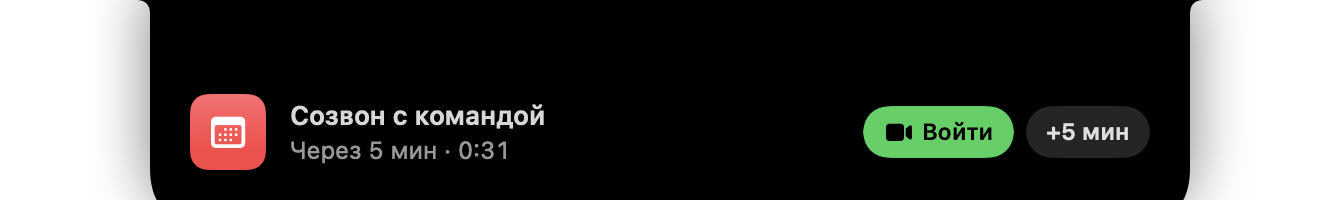
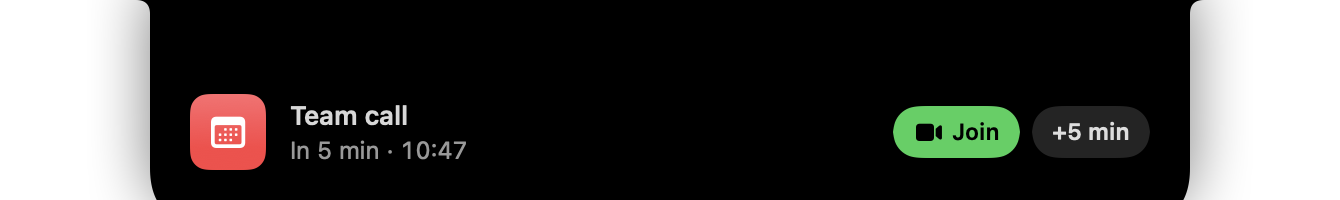
README animation, .dmg script, English screenshots
- `Notchly --gif <file> [--lang en]` draws the open/close animation frame
  by frame with the same springs as IslandMetrics (no screen recording);
  docs/notchly.gif at the top of the README.
- scripts/make-dmg.sh builds build/Notchly-<version>.dmg with an
  Applications shortcut.
- Doc screenshots re-rendered in English; README gains Download (with the
  Gatekeeper note for a locally signed app) and language notes.
- Offscreen renders tinted the selected tab's symbol white, hiding it on
  the white capsule; renders now use a pre-tinted symbol.

Changed region(s): [[0.6425, 0.51, 0.8567, 0.81], [0.2142, 0.51, 0.4284, 0.66], [0.2142, 0.69, 0.3978, 0.81]]

diff --git a/Sources/Notchly/ReadmeGIF.swift b/Sources/Notchly/ReadmeGIF.swift
@@ -1,0 +1,126 @@
+import AppKit
+import ImageIO
+import SwiftUI
+import UniformTypeIdentifiers
+
+/// `Notchly --gif <файл.gif> [--lang en]` рисует GIF для README: остров раскрывается, стоит и сворачивается.
+/// Кадры считаются по тем же пружинам, что в IslandMetrics, поэтому GIF совпадает с настоящей анимацией,
+/// а экран записывать не нужно. Данные вымышленные, как в снапшотах.
+enum ReadmeGIF {
+    private static let fps = 30.0
+
+    @MainActor
+    static func render(to url: URL) {
+        SnapshotFlags.isRendering = true
+        let model = IslandModel(persistent: false)
+        let notch = CGSize(width: 185, height: 32)
+        model.notchSize = notch
+        let art = NSImage(size: NSSize(width: 300, height: 300), flipped: false) { rect in
+            NSGradient(colors: [.systemPink, .systemOrange, .systemPurple])?.draw(in: rect, angle: 45)
+            return true
+        }
+        model.media.debugSet(title: "Blinding Lights", artist: "The Weeknd", album: "After Hours",
+                             duration: 200, elapsed: 74, playing: true, artwork: art, bundleID: "com.apple.Music")
+        model.weather.debugSet(Weather(temperature: 18, high: 21, low: 12, code: 1, isDay: true,
+                                       city: Loc.pick("Берлин", "Berlin"), latitude: 52.52, longitude: 13.40))
+        model.batteries.debugSet(devices: [], phone: nil, mac: BatteryInfo(percent: 82, charging: false))
+        model.tab = .home
+
+        let size = IslandMetrics.windowSize
+        let root = ZStack(alignment: .top) {
+            // Кусочек «рабочего стола» со строкой меню, чтобы было видно, откуда выходит остров.
+            LinearGradient(colors: [Color(red: 0.16, green: 0.2, blue: 0.42), Color(red: 0.42, green: 0.25, blue: 0.5)],
+                           startPoint: .topLeading, endPoint: .bottomTrailing)
+            Color.black.opacity(0.18).frame(height: notch.height).frame(maxHeight: .infinity, alignment: .top)
+            IslandRootView(model: model, media: model.media)
+        }
+        .frame(width: size.width, height: size.height)
+        let host = NSHostingView(rootView: root)
+        host.frame = NSRect(origin: .zero, size: size)
+        let window = NSWindow(contentRect: host.frame, styleMask: .borderless, backing: .buffered, defer: false)
+        window.contentView = host
+
+        let collapsed = (size: CGSize(width: notch.width + 14, height: notch.height), top: CGFloat(7), bottom: CGFloat(11))
+        let expanded = (size: CGSize(width: IslandMetrics.expandedWidth + 28, height: notch.height + IslandMetrics.expandedContentHeight),
+                        top: CGFloat(14), bottom: CGFloat(34))
+        func frame(shape p: Double, content c: Double) -> IslandModel.DebugFrame {
+            let k = CGFloat(p)
+            return .init(size: CGSize(width: collapsed.size.width + (expanded.size.width - collapsed.size.width) * k,
+                                      height: collapsed.size.height + (expanded.size.height - collapsed.size.height) * k),
+                         top: collapsed.top + (expanded.top - collapsed.top) * k,
+                         bottom: collapsed.bottom + (expanded.bottom - collapsed.bottom) * k,
+                         content: c)
+        }
+
+        var frames: [(IslandModel.DebugFrame, Bool)] = []  // кадр и «остров раскрыт»
+        let step = 1 / fps
+        for _ in 0..<12 { frames.append((frame(shape: 0, content: 0), false)) }
+        // Открытие: шторка — пружина IslandMetrics.open, виджеты — easeOut 0.3 с после паузы.
+        for i in 0..<Int(0.9 * fps) {
+            let t = Double(i) * step
+            let content = easeOut(max(0, t - IslandMetrics.contentInDelay) / 0.3)
+            frames.append((frame(shape: spring(t, response: 0.44, damping: 0.9), content: content), true))
+        }
+        for _ in 0..<Int(1.6 * fps) { frames.append((frame(shape: 1, content: 1), true)) }
+        // Закрытие: сначала гаснет содержимое, потом форма без отскока уходит в вырез.
+        for i in 0..<Int(0.85 * fps) {
+            let t = Double(i) * step
+            let content = 1 - easeOut(t / 0.14)
+            let shape = t < IslandMetrics.closeDelay ? 1 : 1 - spring(t - IslandMetrics.closeDelay, response: 0.5, damping: 1)
+            frames.append((frame(shape: shape, content: content), shape > 0.02))
+        }
+        for _ in 0..<12 { frames.append((frame(shape: 0, content: 0), false)) }
+
+        guard let destination = CGImageDestinationCreateWithURL(url as CFURL, UTType.gif.identifier as CFString,
+                                                                frames.count, nil) else { return }
+        CGImageDestinationSetProperties(destination, [kCGImagePropertyGIFDictionary: [kCGImagePropertyGIFLoopCount: 0]] as CFDictionary)
+        let delay = [kCGImagePropertyGIFDictionary: [kCGImagePropertyGIFDelayTime: step]] as CFDictionary
+
+        // Первый проход: даём SwiftUI загрузить раскрытое содержимое, чтобы в первых кадрах не было пустоты.
+        model.isExpanded = true
+        model.expandedContentVisible = true
+        model.debugFrame = frame(shape: 1, content: 1)
+        // Если вкладка выбрана в момент первого появления шапки, офскрин-рендер теряет её иконку.
+        // Поэтому сначала показываем другую вкладку и переключаемся — как это происходит вживую.
+        model.tab = .music
+        RunLoop.main.run(until: Date().addingTimeInterval(0.6))
+        model.tab = .home
+        RunLoop.main.run(until: Date().addingTimeInterval(1.2))
+
+        // Содержимое всё время на месте (иначе шапка появлялась бы заново), его видимость задаёт кадр.
+        for (debug, _) in frames {
+            model.debugFrame = debug
+            RunLoop.main.run(until: Date().addingTimeInterval(0.02))
+            host.layoutSubtreeIfNeeded()
+            guard let rep = host.bitmapImageRepForCachingDisplay(in: host.bounds) else { continue }
+            host.cacheDisplay(in: host.bounds, to: rep)
+            // Хранить кадры в 2x незачем: GIF получился бы огромным.
+            guard let full = rep.cgImage, let image = downscale(full, to: size) else { continue }
+            CGImageDestinationAddImage(destination, image, delay)
+        }
+        CGImageDestinationFinalize(destination)
+    }
+
+    /// Пружина SwiftUI с заданными response и dampingFraction, от 0 до 1.
+    private static func spring(_ t: Double, response: Double, damping: Double) -> Double {
+        let omega = 2 * Double.pi / response
+        if damping >= 1 { return 1 - (1 + omega * t) * exp(-omega * t) }
+        let wd = omega * sqrt(1 - damping * damping)
+        return 1 - exp(-damping * omega * t) * (cos(wd * t) + damping * omega / wd * sin(wd * t))
+    }
+
+    private static func easeOut(_ x: Double) -> Double {
+        let t = min(max(x, 0), 1)
+        return 1 - pow(1 - t, 3)
+    }
+
+    private static func downscale(_ image: CGImage, to size: CGSize) -> CGImage? {
+        guard let ctx = CGContext(data: nil, width: Int(size.width), height: Int(size.height), bitsPerComponent: 8,
+                                  bytesPerRow: 0, space: CGColorSpaceCreateDeviceRGB(),
+                                  bitmapInfo: CGImageAlphaInfo.premultipliedFirst.rawValue) else { return nil }
+        ctx.interpolationQuality = .high
+        ctx.draw(image, in: CGRect(origin: .zero, size: size))
+        return ctx.makeImage()
+    }
+}
+

diff --git a/Sources/Notchly/IslandModel.swift b/Sources/Notchly/IslandModel.swift
@@ -187,6 +187,9 @@ final class IslandModel: ObservableObject {
     let alarms: AlarmStore
     let settings: AppSettings
     private let screenshotWatcher = ScreenshotFileWatcher()
+    /// Только для GIF в README: форма и видимость содержимого в промежуточном кадре анимации.
+    struct DebugFrame: Equatable { var size: CGSize; var top: CGFloat; var bottom: CGFloat; var content: Double }
+    @Published var debugFrame: DebugFrame?
     /// Открыто окно настроек: остров стоит раскрытым, чтобы изменения было видно сразу.
     @Published var settingsOpen = false
 
@@ -283,9 +286,10 @@ final class IslandModel: ObservableObject {
 
     // MARK: - Геометрия
 
-    var topRadius: CGFloat { isExpanded ? 14 : 7 }
+    var topRadius: CGFloat { debugFrame?.top ?? (isExpanded ? 14 : 7) }
 
     var bottomRadius: CGFloat {
+        if let debugFrame { return debugFrame.bottom }
         if isExpanded { return 34 }
         if let event {
             if event.isCompact { return hasPhysicalNotch ? 11 : 14 }
@@ -328,7 +332,8 @@ final class IslandModel: ObservableObject {
 
     /// Полный размер фигуры с учётом изгибов у верхней кромки.
     var shapeSize: CGSize {
-        CGSize(width: bodySize.width + topRadius * 2, height: bodySize.height)
+        if let debugFrame { return debugFrame.size }
+        return CGSize(width: bodySize.width + topRadius * 2, height: bodySize.height)
     }
 
     /// Живая активность музыки в свёрнутом острове (можно выключить в настройках).

diff --git a/Sources/Notchly/Views/ExpandedIslandView.swift b/Sources/Notchly/Views/ExpandedIslandView.swift
@@ -121,9 +121,19 @@ private struct TabButton: View {
 
     @ViewState private var hovering = false
 
+    /// Снимок окна (снапшоты и GIF для README) красит системные символы в кнопках белым,
+    /// и чёрная иконка выбранной вкладки пропадала на белой капсуле. Там берём уже окрашенную картинку.
+    private var icon: Image {
+        guard SnapshotFlags.isRendering, selected,
+              let symbol = NSImage(systemSymbolName: tab.icon, accessibilityDescription: nil)?
+                .withSymbolConfiguration(.init(pointSize: 12.5, weight: .semibold)
+                    .applying(.init(paletteColors: [.black]))) else { return Image(systemName: tab.icon) }
+        return Image(nsImage: symbol)
+    }
+
     var body: some View {
         Button(action: action) {
-            Image(systemName: tab.icon)
+            icon
                 .font(.system(size: 12.5, weight: .semibold))
                 .foregroundStyle(selected ? .black : .white.opacity(hovering ? 1 : 0.65))
                 .symbolEffect(.bounce, value: selected)

diff --git a/Sources/Notchly/Views/IslandRootView.swift b/Sources/Notchly/Views/IslandRootView.swift
@@ -93,8 +93,8 @@ struct IslandRootView: View {
                        height: model.notchSize.height + IslandMetrics.expandedContentHeight)
                 // Открытие: виджеты выходят снизу, когда шторка уже опускается.
                 // Закрытие: сначала всё гаснет, потом сворачивается форма.
-                .opacity(model.expandedContentVisible ? 1 : 0)
-                .offset(y: model.expandedContentVisible ? 0 : 12)
+                .opacity(model.debugFrame?.content ?? (model.expandedContentVisible ? 1 : 0))
+                .offset(y: 12 * (1 - (model.debugFrame?.content ?? (model.expandedContentVisible ? 1 : 0))))
                 .allowsHitTesting(model.expandedContentVisible)
                 .transition(.identity)
         } else if let event = model.event, model.eventExpanded {

diff --git a/Sources/Notchly/Snapshots.swift b/Sources/Notchly/Snapshots.swift
@@ -9,6 +9,8 @@ enum SnapshotFlags {
     static var clipboardMode: ClipboardTab.Mode = .history
     static var settingsPane: SettingsView.Pane = .general
     static var expandedClipGroup: String?
+    /// Идёт офскрин-рендер (снапшоты, GIF), а не живое приложение.
+    static var isRendering = false
 }
 
 /// `Notchly --snapshots <папка>` рендерит все состояния острова в PNG —
@@ -16,6 +18,7 @@ enum SnapshotFlags {
 enum Snapshots {
     @MainActor
     static func render(to dir: URL) {
+        SnapshotFlags.isRendering = true
         try? FileManager.default.createDirectory(at: dir, withIntermediateDirectories: true)
         let model = IslandModel(persistent: false)
         model.notchSize = CGSize(width: 185, height: 32)

diff --git a/Sources/Notchly/App.swift b/Sources/Notchly/App.swift
@@ -14,6 +14,12 @@ final class AppDelegate: NSObject, NSApplicationDelegate {
            let language = AppLanguage(rawValue: CommandLine.arguments[i + 1]) {
             Loc.language = language
         }
+        if let i = CommandLine.arguments.firstIndex(of: "--gif"), i + 1 < CommandLine.arguments.count {
+            MainActor.assumeIsolated {
+                ReadmeGIF.render(to: URL(fileURLWithPath: CommandLine.arguments[i + 1]))
+            }
+            exit(0)
+        }
         if let i = CommandLine.arguments.firstIndex(of: "--snapshots"), i + 1 < CommandLine.arguments.count {
             MainActor.assumeIsolated {
                 Snapshots.render(to: URL(fileURLWithPath: CommandLine.arguments[i + 1]))

diff --git a/README.md b/README.md
@@ -10,12 +10,22 @@
 </p>
 
 <p align="center">
+  <img src="docs/notchly.gif" width="760" alt="The island opening from the notch">
+</p>
+
+<p align="center">
   <img src="docs/screenshots/4-home.png" width="720" alt="Home">
 </p>
 
 <p align="center">
   <img src="docs/screenshots/12-focus-compact.png" width="420" alt="Focus timer in the collapsed island">
 </p>
+
+## Download
+
+Grab `Notchly-1.0.dmg` from [Releases](../../releases), open it and drag Notchly to Applications.
+
+The app is signed with a local certificate, not an Apple Developer ID, so on first launch macOS says it can't verify the developer. Right-click Notchly → **Open** → **Open** (or *System Settings → Privacy & Security → Open Anyway*). You only need to do this once.
 
 ## Features
 
@@ -32,7 +42,7 @@
 | **Clipboard** — history grouped by app, recent **screenshots** (click to copy, drag into any app, save a copy; kept for a few days); entries and screenshots can be given their own names, and a Touch ID–protected API key vault. | <img src="docs/screenshots/4-clipboard-shots.png" width="360"><br><img src="docs/screenshots/4-clipboard.png" width="360"> |
 | **Settings** — a separate window that opens under the island, so every change is visible live: tab order and side, hidden tabs, which cards and HUDs appear, notifications, clipboard and screenshot retention, how long the island stays open. | <img src="docs/screenshots/14-settings-tabs.png" width="360"> |
 
-Also: rich-text notes, a notification center (Gmail over IMAP + app notifications), volume/brightness HUDs that replace the system ones.
+Also: English and Russian interface (switchable live in Settings), rich-text notes, a notification center (Gmail over IMAP + app notifications), volume/brightness HUDs that replace the system ones.
 
 ## Engineering highlights
 
@@ -60,6 +70,8 @@ Everything stays on your Mac: no server, no analytics, no telemetry. Secrets liv
 open build/Notchly.app
 ```
 
+`./scripts/make-dmg.sh` builds `build/Notchly-<version>.dmg` for a release.
+
 Regenerate the icon with `swift scripts/make-icon.swift`.
 
 ### Permissions
@@ -71,11 +83,14 @@ Regenerate the icon with `swift scripts/make-icon.swift`.
 | Audio Capture | per-app volume mixer |
 | Calendars | meeting reminders |
 | Bluetooth, Location | headphone battery, local weather |
+| Desktop folder | keeping Desktop screenshots (only if you turn it on) |
 
 ### Self-checks
 
 ```bash
-.build/debug/Notchly --snapshots /tmp/notchly   # render all states to PNG
+.build/debug/Notchly --snapshots /tmp/notchly [--lang en]   # render all states to PNG
+.build/debug/Notchly --gif docs/notchly.gif --lang en        # the README animation, frame by frame
+python3 scripts/check-l10n.py                                # every UI string has an English translation
 .build/debug/Notchly --reminders-selftest       # reminder scheduling
 .build/debug/Notchly --mixer-selftest           # which apps are playing audio
 .build/debug/Notchly --chime                    # play the reminder sound
@@ -92,7 +107,8 @@ Sources/Notchly/
   GmailClient.swift, SystemNotifications.swift, GeminiAssistant.swift
   Views/                                                      SwiftUI views
 MediaAdapter/                                                 dylib loaded into /usr/bin/perl
-scripts/                                                      signing and icon generation
+  Localization.swift, English.swift                           L(...) lookup and the English table
+scripts/                                                      signing, icon, .dmg, translation check
 ```
 
 ## Roadmap
@@ -102,4 +118,4 @@ scripts/                                                      signing and icon g
 
 ---
 
-<sub>Интерфейс приложения на русском. Notchly — не продукт Apple; «Dynamic Island» — торговая марка Apple Inc.</sub>
+<sub>Notchly is not an Apple product. “Dynamic Island” is a trademark of Apple Inc.</sub>
